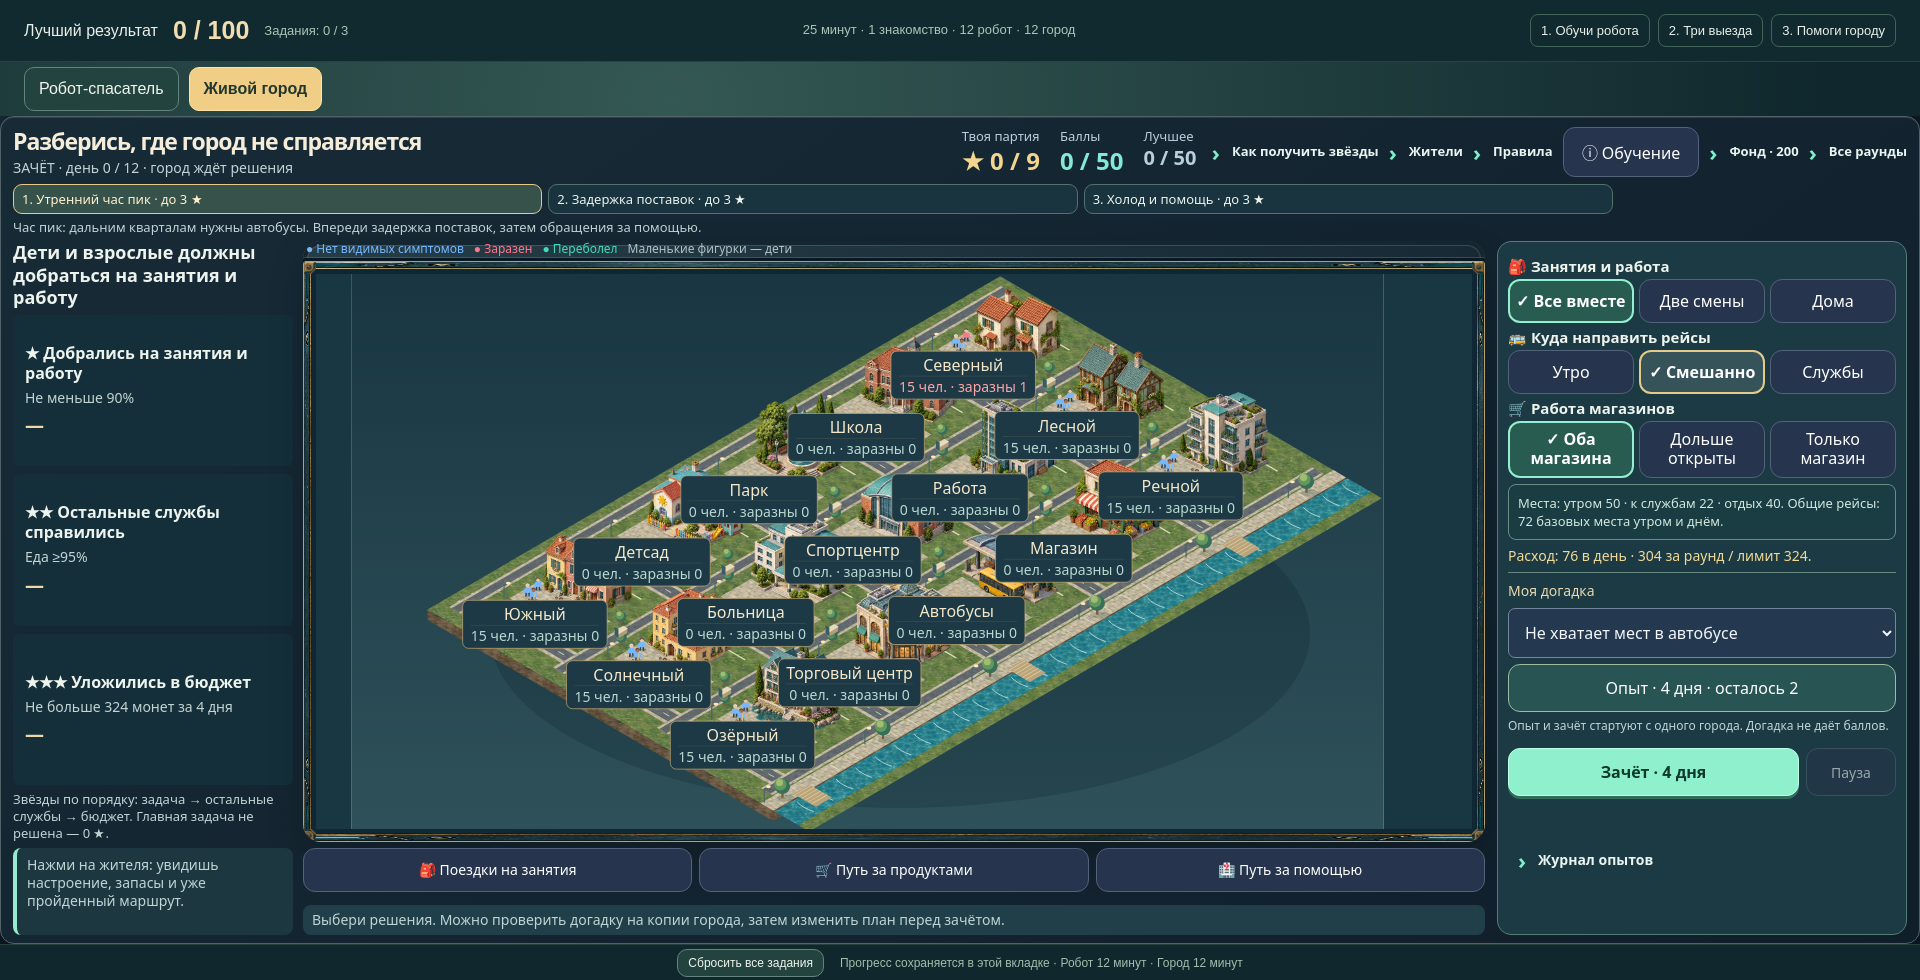
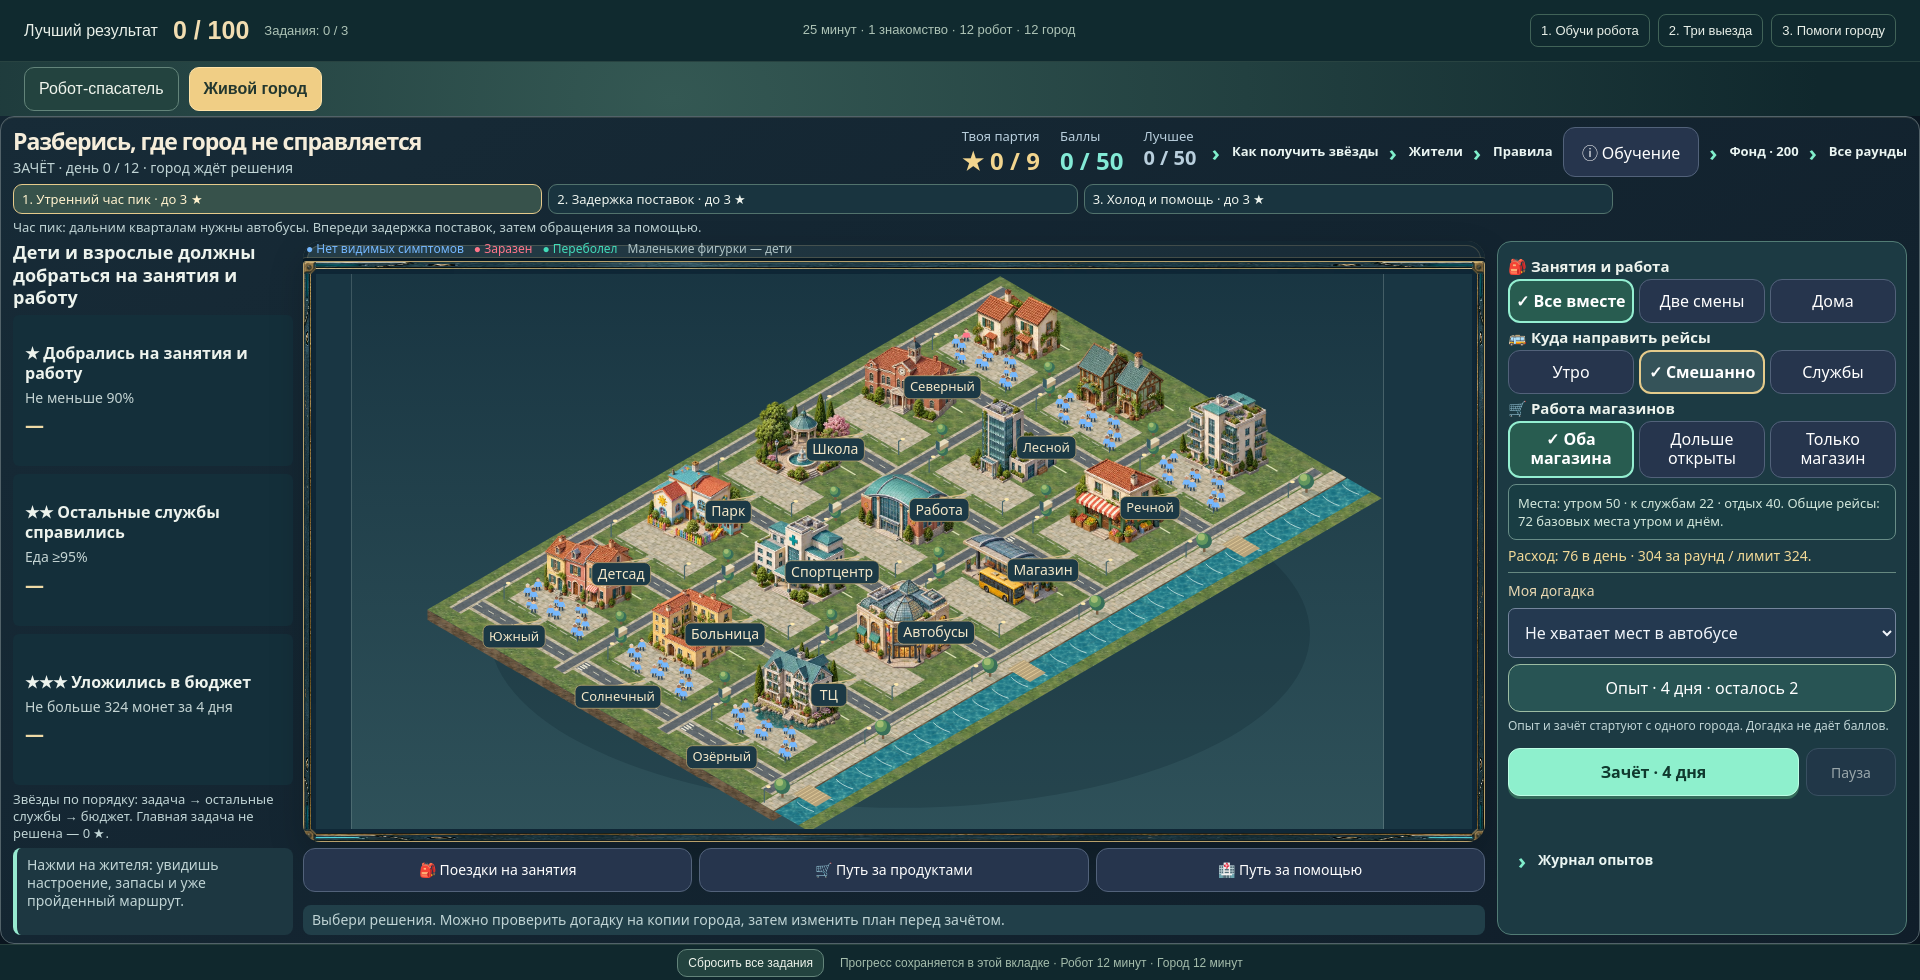
Make city labels compact and keep residents visible

Changed region(s): [[0.2188, 0.3367, 0.6562, 0.7959]]

diff --git a/epidemic.html b/epidemic.html
@@ -119,8 +119,19 @@ g.onclick=()=>{if(dragged)return;if(window.mayorActive){window.mayorSelect(p.id)
 }});
 for(const y of [160,490,820,1150,1480])for(const x of [340,660]){objects.push({depth:x+y,draw:()=>{isoTree(m,x-28,y,9);isoTree(m,x+28,y+55,9);block(m,x-7,y+15,13,27,8,'#e1cfab','#b39d79','#e7dabc');}});}
 objects.sort((a,b)=>a.depth-b.depth).forEach(o=>o.draw());
-const badges=svg('g',{id:'cityBadges','aria-label':'Названия и посещаемость'},m);
-for(const p of Epidemic.places){const off=config()[p.id]===false,count=h.loc.filter(v=>v===p.id).length,inf=h.loc.filter((v,i)=>v===p.id&&h.state[i]==='I').length,badge=project(p.x,p.y+174),g=svg('g',{class:'place',role:'button',tabindex:0,'aria-label':p.name,'data-place':p.id,'data-badge-x':badge[0],'data-badge-y':badge[1]},badges);svg('path',{d:`M ${badge[0]} ${badge[1]-15} v -9`,stroke:'#d8c18b','stroke-width':2},g);svg('rect',{x:badge[0]-79,y:badge[1]-19,width:158,height:40,rx:6,fill:off?'#62444d':'#1c3945',class:'district-frame'},g);svg('path',{d:`M ${badge[0]-65} ${badge[1]+2} h 130`,stroke:'#bca77555','stroke-width':.7},g);label(g,p.name,badge[0],badge[1]-3,14,'#f4e8c9');label(g,off?'Закрыто':`${count} чел. · заразны ${inf}`,badge[0],badge[1]+15,12,inf?'#ffa5a6':'#b9d9d1');const tip=svg('title',{},g);tip.textContent=p.name+(count>60?` · ещё ${count-60} внутри здания`:'');g.onclick=()=>{if(dragged)return;if(window.mayorActive){window.mayorSelect(p.id);return;}if(p.home){$('adult'+p.id.slice(1)).focus();$('population').scrollIntoView({behavior:'smooth',block:'center'});}else{config()[p.id]=!config()[p.id];controls();invalidate();}};g.onkeydown=e=>{if(e.key==='Enter'||e.key===' '){e.preventDefault();g.onclick();}};}
+const badges=svg('g',{id:'cityBadges','aria-label':window.mayorActive?'Названия районов и зданий':'Названия и посещаемость'},m);
+for(const p of Epidemic.places){
+ const compact=window.mayorActive,off=config()[p.id]===false,count=h.loc.filter(v=>v===p.id).length,inf=h.loc.filter((v,i)=>v===p.id&&h.state[i]==='I').length,badge=project(p.x,p.y+(compact?238:174)),anchor=project(p.x,p.y+154);
+ const description=(off?'Закрыто':`Сейчас здесь ${count} жителей · заразны ${inf}`)+(count>60?` · ещё ${count-60} внутри здания`:'');
+ const g=svg('g',{class:'place',role:'button',tabindex:0,'aria-label':p.name,'aria-description':description,'data-place':p.id,'data-badge-x':badge[0],'data-badge-y':badge[1],'data-anchor-x':anchor[0],'data-anchor-y':anchor[1]},badges);
+ svg('path',{d:`M ${badge[0]} ${badge[1]-15} v -9`,stroke:'#d8c18b','stroke-width':2},g);
+ svg('rect',{x:badge[0]-79,y:badge[1]-(compact?12:19),width:158,height:compact?24:40,rx:6,fill:off?'#62444d':'#1c3945',class:'district-frame'},g);
+ label(g,compact?p.name.replace(' квартал',''):p.name,badge[0],badge[1]+(compact?4:-3),14,'#f4e8c9');
+ if(!compact){svg('path',{d:`M ${badge[0]-65} ${badge[1]+2} h 130`,stroke:'#bca77555','stroke-width':.7},g);label(g,off?'Закрыто':`${count} чел. · заразны ${inf}`,badge[0],badge[1]+15,12,inf?'#ffa5a6':'#b9d9d1');}
+ const tip=svg('title',{},g);tip.textContent=p.name+' · '+description+(compact?' · '+(window.mayorPlaceHint?.(p.id)||'открыть сведения'):'');
+ g.onclick=()=>{if(dragged)return;if(window.mayorActive){window.mayorSelect(p.id);return;}if(p.home){$('adult'+p.id.slice(1)).focus();$('population').scrollIntoView({behavior:'smooth',block:'center'});}else{config()[p.id]=!config()[p.id];controls();invalidate();}};
+ g.onkeydown=e=>{if(e.key==='Enter'||e.key===' '){e.preventDefault();g.onclick();}};
+}
 
 const atlas=svg('g',{'aria-hidden':'true','pointer-events':'none'},m);
 // The desktop game already has its title and context outside the map.
@@ -142,18 +153,16 @@ label(atlas,'15 районов и общественных мест',1450,1029,1
 window.fitMayorLabels=()=>{
  if(!window.mayorActive||!document.body.classList.contains('monitor-layout'))return;
  const map=$('map'),scale=map.getScreenCTM()?.a;if(!scale)return;
- const large=innerWidth>=2200,nameSize=large?20:16,countSize=large?18:14;
- const height=large?58:48,top=-height/2,nameY=large?-6:-4,countY=large?20:17;
- const short={kindergarten:'Детсад',work:'Работа',gym:'Спортцентр',mall:'Торговый центр',bus:'Автобусы'};
+ const large=innerWidth>=2200,height=large?28:23,top=-height/2;
+ const short={kindergarten:'Детсад',work:'Работа',gym:'Спортцентр',mall:'ТЦ',bus:'Автобусы'};
  for(const g of map.querySelectorAll('#cityBadges > g')){
-  const x=+g.getAttribute('data-badge-x'),y=+g.getAttribute('data-badge-y'),texts=g.querySelectorAll('text'),rect=g.querySelector('rect'),paths=g.querySelectorAll('path');
-  texts[0].textContent=short[g.getAttribute('data-place')]||g.getAttribute('aria-label').replace(' квартал','');
-  texts[0].setAttribute('font-size',nameSize/scale);texts[0].setAttribute('y',y+nameY/scale);
-  texts[1].setAttribute('font-size',countSize/scale);texts[1].setAttribute('y',y+countY/scale);
-  const width=Math.max(118,texts[0].getComputedTextLength()*scale+16,texts[1].getComputedTextLength()*scale+16)/scale;
+  const id=g.getAttribute('data-place'),nameSize=id.startsWith('h')?(large?16:13):(large?18:14);
+  const x=+g.getAttribute('data-badge-x'),y=+g.getAttribute('data-badge-y'),text=g.querySelector('text'),rect=g.querySelector('rect'),path=g.querySelector('path');
+  text.textContent=short[id]||g.getAttribute('aria-label').replace(' квартал','');
+  text.setAttribute('font-size',nameSize/scale);text.setAttribute('y',y+nameSize*.33/scale);
+  const width=Math.max(36,text.getComputedTextLength()*scale+12)/scale;
   rect.setAttribute('x',x-width/2);rect.setAttribute('y',y+top/scale);rect.setAttribute('width',width);rect.setAttribute('height',height/scale);rect.setAttribute('rx',6/scale);
-  paths[0].setAttribute('d',`M ${x} ${y+top/scale} v ${-8/scale}`);
-  paths[1].setAttribute('d',`M ${x-width/2+8/scale} ${y+1/scale} h ${width-16/scale}`);
+  path.setAttribute('d',`M ${x} ${y+top/scale} L ${g.getAttribute('data-anchor-x')} ${g.getAttribute('data-anchor-y')}`);
  }
 };
 function draw(animate=false){const h=snapshot(),ps=people(),m=$('map'),pos=positions(h);stopMotion();m.replaceChildren();isoScene(m,h);const roads=[330,660,990,1320,1650];

diff --git a/index.html b/index.html
@@ -33,8 +33,8 @@
 <section class="learning-action"><div class="learning-heading"><h3>Память ИИ</h3><button id="modelInfo" title="Измерения и предположения робота"><span id="qualitySummary">0 примеров</span> · Открыть</button></div><p id="newExperience">Измерения попадут сюда после поездки.</p><button id="train" disabled>Передать опыт роботу</button><p id="learningEffect" role="status">Без обучения робот не узнает о результатах поездки.</p></section>
 <div id="campaignResult" hidden></div>
 </aside></main></div>
-<iframe id="epiView" title="Живой город" src="epidemic.html?v=review-20261009-map-3" hidden></iframe>
+<iframe id="epiView" title="Живой город" src="epidemic.html?v=review-20261009-city-labels-1" hidden></iframe>
 <footer id="sessionFooter"><button id="newParticipant">Сбросить все задания</button><span>Прогресс сохраняется в этой вкладке · Робот 12 минут · Город 12 минут</span></footer>
 <dialog id="robotDialog" aria-labelledby="dialogTitle"><div class="dialog-header"><h2 id="dialogTitle"></h2><button id="dialogClose">Закрыть ✕</button></div><div id="dialogBody"></div></dialog>
-<script src="game-score.js?v=city-experiments-1"></script><script src="robot-engine.js?v=cargo-school-3"></script><script src="robot-delivery.js?v=cargo-school-3"></script><script src="robot-map.js?v=scenic-roads-2"></script><script src="robot-ui.js?v=scenic-roads-2"></script><script src="mission-ui.js?v=review-20261009-2"></script>
+<script src="game-score.js?v=city-experiments-1"></script><script src="robot-engine.js?v=cargo-school-3"></script><script src="robot-delivery.js?v=cargo-school-3"></script><script src="robot-map.js?v=scenic-roads-2"></script><script src="robot-ui.js?v=scenic-roads-2"></script><script src="mission-ui.js?v=review-20261009-city-labels-1"></script>
 </body></html>

diff --git a/mission-ui.js b/mission-ui.js
@@ -7,7 +7,7 @@
   const saved = window.FestivalSession?.read('score');
   if (saved?.rules===GameScore.VERSION && ['robot','city'].every(key=>Number.isInteger(saved[key])&&saved[key]>=0&&saved[key]<=50) && ['trainingDone','deliveryDone','cityDone'].every(key=>typeof saved[key]==='boolean')) for(const key of Object.keys(state))state[key]=saved[key];
   if (saved?.robotRules !== RobotEngine.VERSION) { state.robot = 0; state.trainingDone = false; state.deliveryDone = false; }
-  if (session !== 'initial') $('epiView').src = 'epidemic.html?v=review-20261009-map-3&session=' + encodeURIComponent(session);
+  if (session !== 'initial') $('epiView').src = 'epidemic.html?v=review-20261009-city-labels-1&session=' + encodeURIComponent(session);
   function draw() {
     window.FestivalSession?.save('score',{...state,rules:GameScore.VERSION,robotRules:RobotEngine.VERSION},session);
     $('overallScore').textContent = GameScore.total(state);
@@ -47,7 +47,7 @@
   $('newParticipant').onclick = () => {
     window.GameTour?.finish(false); session = window.FestivalSession?.reset() || String(Date.now()); window.resetRobotMission();
     for (const key of Object.keys(state)) state[key] = typeof state[key] === 'boolean' ? false : 0;
-    $('epiView').src = 'epidemic.html?v=review-20261009-map-3&session=' + encodeURIComponent(session);
+    $('epiView').src = 'epidemic.html?v=review-20261009-city-labels-1&session=' + encodeURIComponent(session);
     $('robotTab').click(); draw();
   };
   window.robotExpedition?.publish(); draw();

diff --git a/docs/CITY_CAMPAIGN.md b/docs/CITY_CAMPAIGN.md
@@ -85,6 +85,6 @@
 
 История допускает многократную покупку и возврат улучшений: произвольного порога в 500 действий, после которого терялся допустимый сохранённый город, больше нет. Каждое действие по-прежнему проверяется; фонд от повторных возвратов не увеличивается. Регрессионный тест восстанавливает более 500 действий вместе с завершённым зачётным раундом и запускает следующий раунд из того же состояния.
 
-Проверяются реальные кнопки, клавиатура, диалоги, пауза при осмотре жителей, история опытов, изменение плана после опыта, общий сброс и полное прохождение обеих игр на 100/100. Мониторы: 1920×1080 и 2560×1440. Тесты следят за пересечением подписей и доступностью управления без прокрутки основного экрана.
+Проверяются реальные кнопки, клавиатура, диалоги, пауза при осмотре жителей, история опытов, изменение плана после опыта, общий сброс и полное прохождение обеих игр на 100/100. Мониторы: 1920×1080 и 2560×1440. Тесты следят за пересечением подписей и доступностью управления без прокрутки основного экрана. На карте города названия показаны компактными однострочными плашками: районы — 13 px в Full HD и 16 px в QHD, здания — 14/18 px. Плашки вынесены за дворы с жителями; на исходной карте они не перекрывают фигурки. Число присутствующих и заражённых доступно при наведении и в описании для экранного диктора. Полные названия сохраняются, здания и подписи открывают те же карточки мышью и клавиатурой.
 
 На обычной скорости три зачёта занимают примерно 96 секунд анимации, шесть опытов — ещё 84, учебные прогоны — около 16. Остальное время предназначено для наблюдения, проверки догадок и решений. Реальную понятность и интерес на 12-минутной площадке нужно проверить с детьми; автотесты подтверждают механику и интерфейс.
